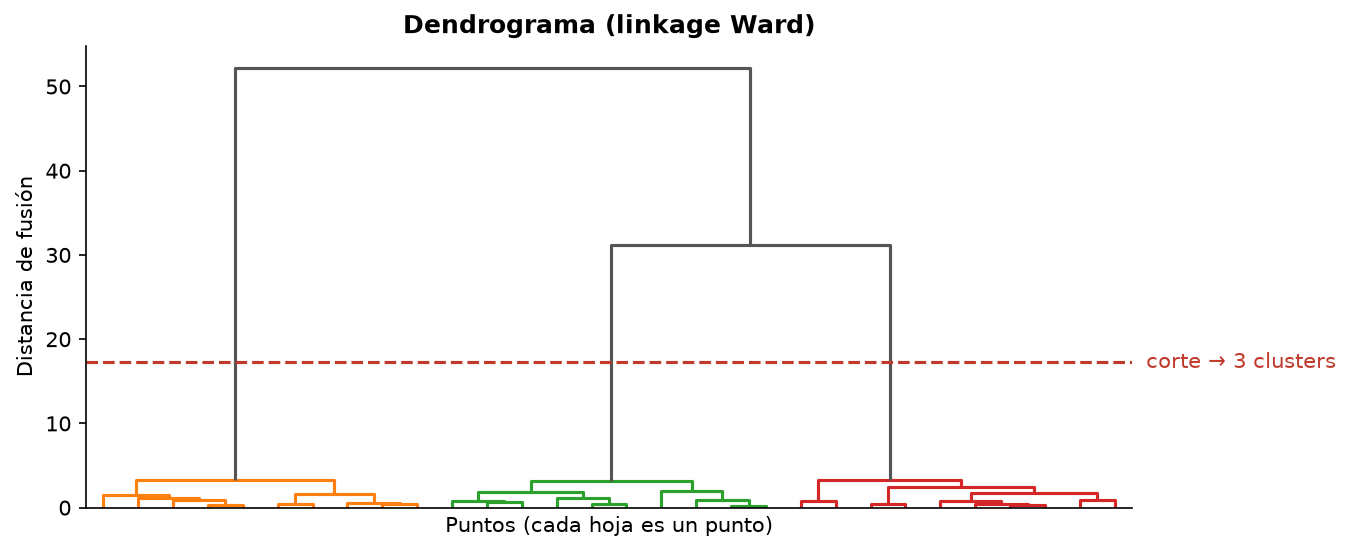
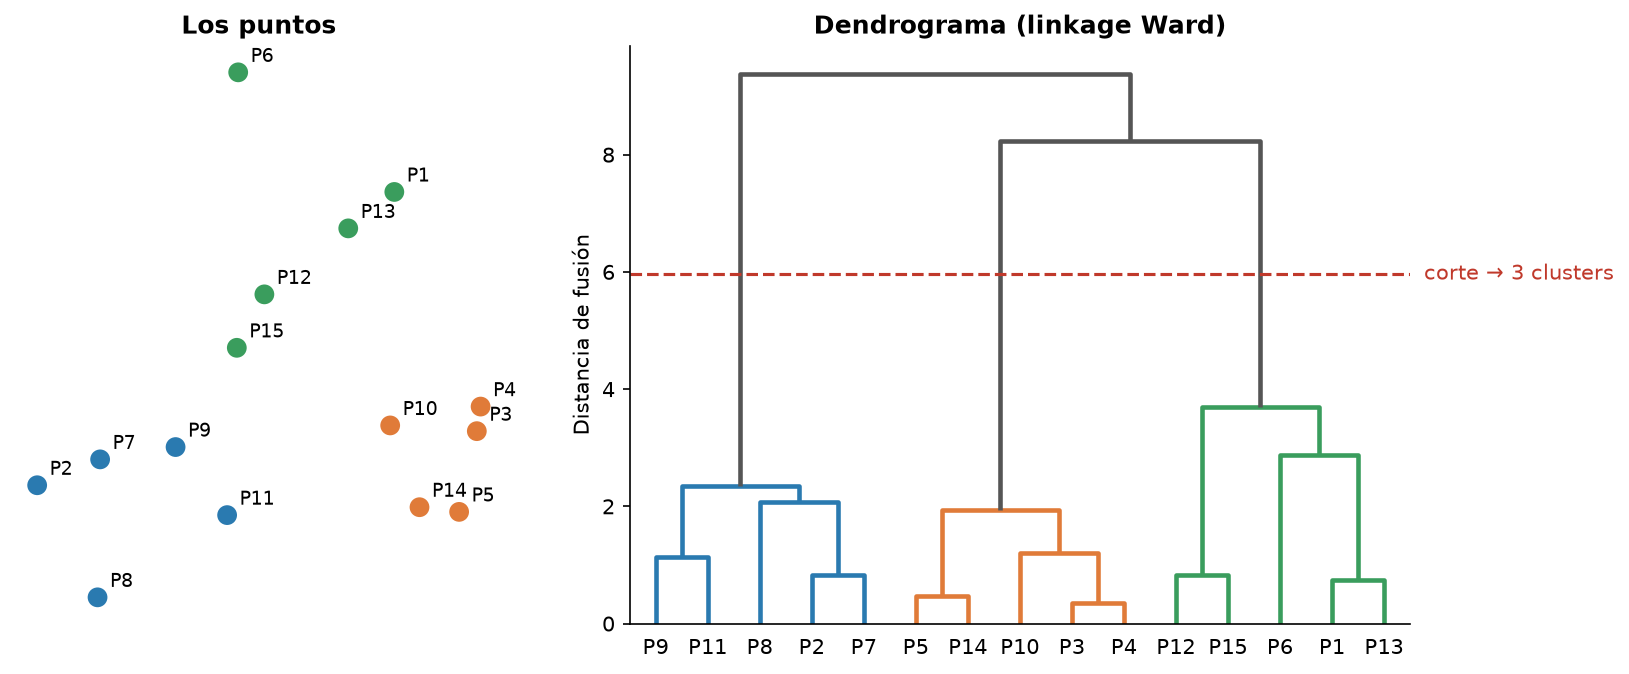
docs: improve dendrogram figure readability

diff --git a/scripts/generar_figuras.py b/scripts/generar_figuras.py
@@ -13,7 +13,7 @@ from pathlib import Path
 import matplotlib.pyplot as plt
 from matplotlib.patches import Ellipse
 import numpy as np
-from scipy.cluster.hierarchy import dendrogram, linkage
+from scipy.cluster.hierarchy import dendrogram, linkage, set_link_color_palette
 from sklearn.cluster import DBSCAN, AgglomerativeClustering, KMeans
 from sklearn.datasets import make_blobs, make_moons
 from sklearn.metrics import silhouette_score
@@ -140,16 +140,33 @@ def fig_silueta():
 
 # 5. Dendrograma (sección 5.2)
 def fig_dendrograma():
-    X, _ = make_blobs(n_samples=30, centers=3, cluster_std=0.8, random_state=SEMILLA)
+    # Pocos puntos y grupos no muy separados: así se ven bien todas las ramas
+    X, _ = make_blobs(n_samples=15, centers=[[0, 0], [4, 1], [2, 4]],
+                      cluster_std=0.9, random_state=7)
     Z = linkage(X, method="ward")
     corte = (Z[-3, 2] + Z[-2, 2]) / 2  # entre la 3.ª y la 2.ª fusión -> 3 clusters
-    fig, ax = plt.subplots(figsize=(9, 4))
-    dendrogram(Z, ax=ax, color_threshold=corte, above_threshold_color="#555555", no_labels=True)
-    ax.axhline(corte, ls="--", color=COLORES[3])
-    ax.text(ax.get_xlim()[1], corte, "  corte → 3 clusters", va="center", color=COLORES[3])
-    ax.set_ylabel("Distancia de fusión")
-    ax.set_xlabel("Puntos (cada hoja es un punto)")
-    ax.set_title("Dendrograma (linkage Ward)")
+    nombres = [f"P{i + 1}" for i in range(len(X))]
+
+    fig, (ax_pts, ax_den) = plt.subplots(1, 2, figsize=(12, 5), gridspec_kw={"width_ratios": [1, 1.6]})
+
+    set_link_color_palette(list(COLORES[:3]))
+    dend = dendrogram(Z, ax=ax_den, labels=nombres, color_threshold=corte,
+                      above_threshold_color="#555555", leaf_font_size=10)
+    set_link_color_palette(None)
+    for linea in ax_den.collections:
+        linea.set_linewidth(2.2)
+    ax_den.axhline(corte, ls="--", lw=1.5, color=COLORES[3])
+    ax_den.text(ax_den.get_xlim()[1], corte, "  corte → 3 clusters", va="center", color=COLORES[3])
+    ax_den.set_ylabel("Distancia de fusión")
+    ax_den.set_title("Dendrograma (linkage Ward)")
+
+    # Mismo color para cada punto que su rama en el dendrograma
+    color_hoja = dict(zip(dend["ivl"], dend["leaves_color_list"]))
+    ax_pts.scatter(*X.T, s=110, c=[color_hoja[n] for n in nombres], edgecolors="white", zorder=2)
+    for nombre, (x, y) in zip(nombres, X):
+        ax_pts.annotate(nombre, (x, y), xytext=(6, 5), textcoords="offset points", fontsize=9)
+    ax_pts.set_title("Los puntos")
+    sin_ejes(ax_pts)
     guardar(fig, "05_dendrograma.png")
 
 

diff --git a/README.md b/README.md
@@ -354,7 +354,7 @@ cortar donde aparece el salto vertical más grande.
 
 ![Dendrograma con línea de corte](img/05_dendrograma.png)
 
-*Figura 5. Abajo se unen los puntos más parecidos; arriba, los grupos más distintos. Los saltos verticales más largos están por encima de la línea roja: cortar ahí da 3 clusters.*
+*Figura 5. A la izquierda, 15 puntos; a la derecha, su dendrograma. Abajo se unen primero los puntos más cercanos (P3 y P4, P1 y P13...) y, cuanto más arriba, más distintos son los grupos que se fusionan. Las ramas más largas cruzan la línea roja: cortar ahí da 3 clusters, con los mismos colores que los puntos.*
 
 Un parámetro clave es el **criterio de enlace (*linkage*)**, que define cómo se mide
 la distancia entre dos grupos:
